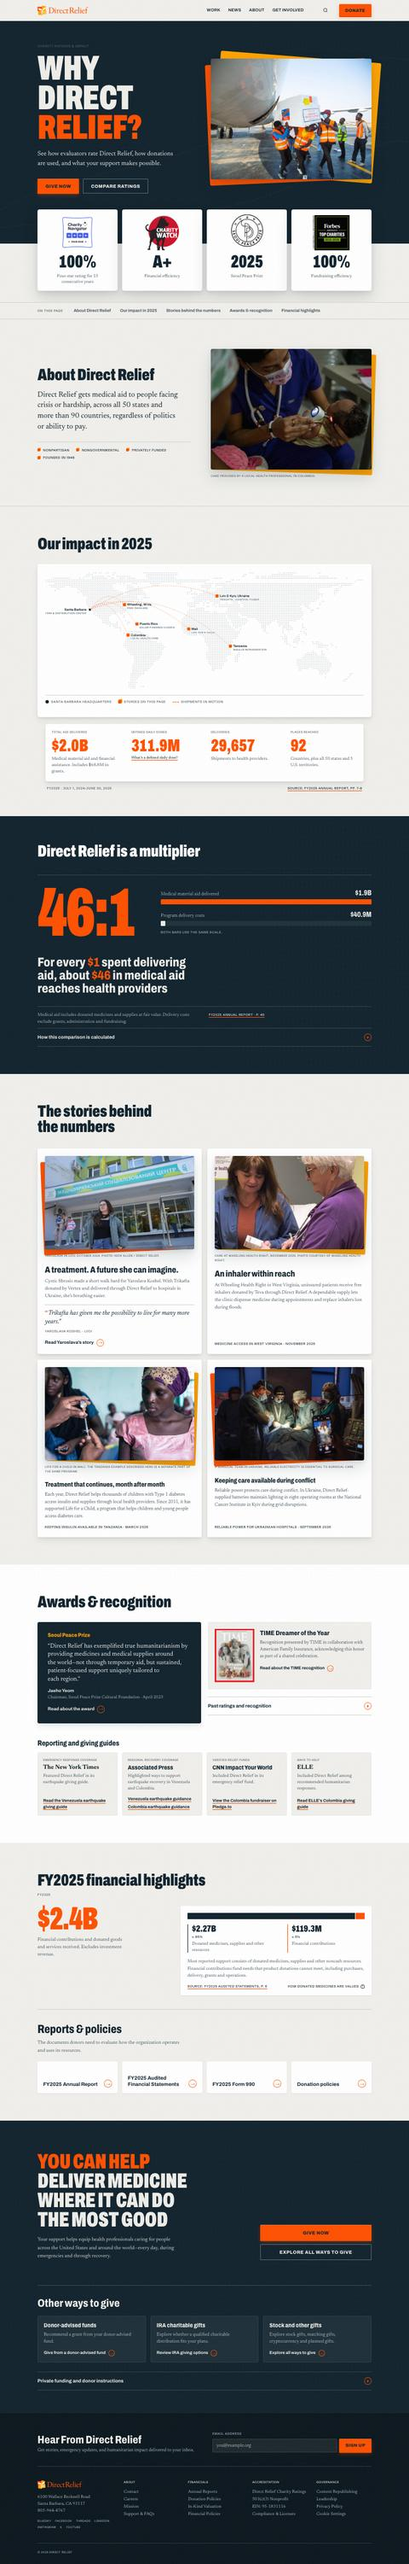
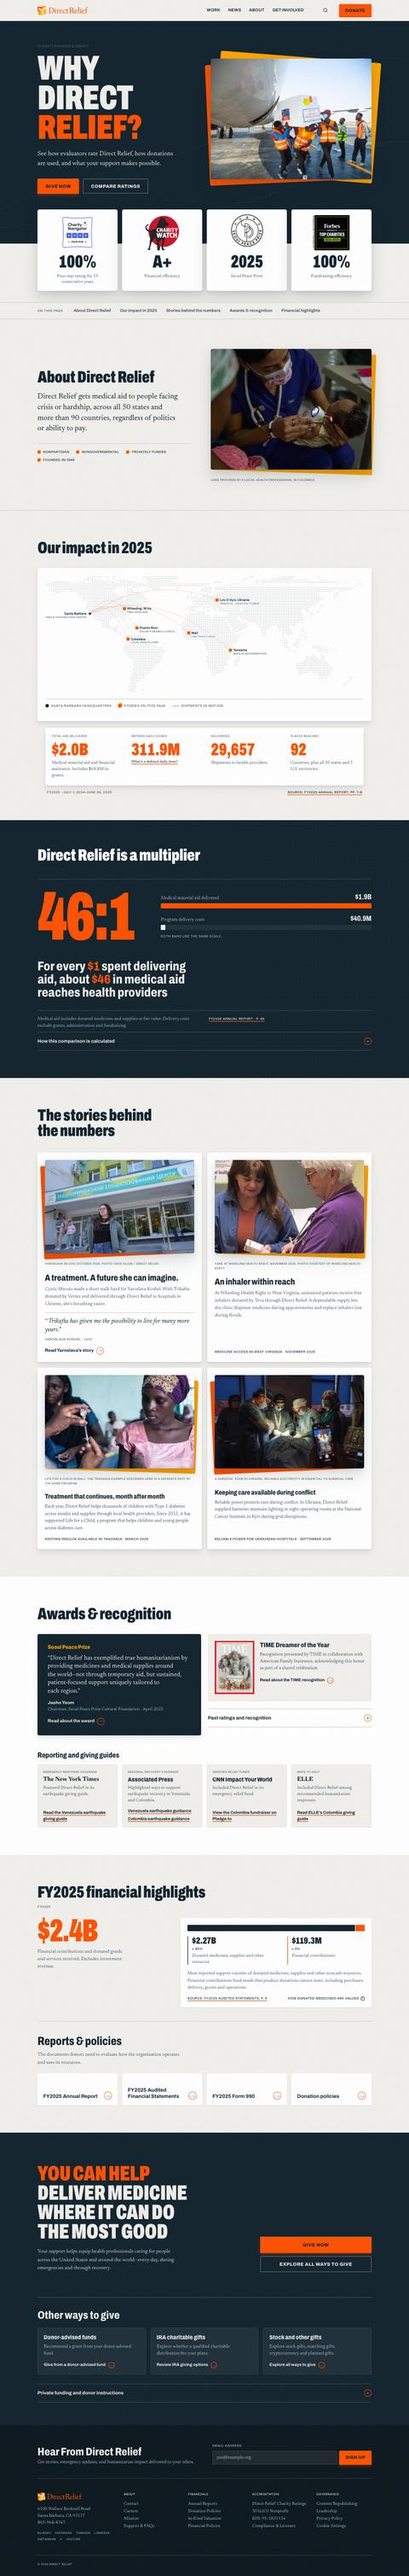
Fix v6 photo captions overlapping the tilted backing

diff --git a/v6/index.html b/v6/index.html
@@ -171,9 +171,10 @@ p{margin:0}
 .tile-ph .imgw::before{content:"";position:absolute;inset:0;border-radius:6px;background:var(--orange);transform:rotate(-2.5deg) translate(-10px,10px)}
 .tile-ph.amber .imgw::before{background:var(--amber);transform:rotate(2deg) translate(10px,10px)}
 .tile-ph img{position:relative;width:100%;aspect-ratio:4/3;object-fit:cover;border-radius:6px;box-shadow:var(--e3)}
-.tile-ph figcaption{margin-top:16px;color:var(--ink-2);font-size:.62rem;line-height:1.5}
+/* the tilted backing reaches ~22px below a 560px photo, so captions start past it */
+.tile-ph figcaption{margin-top:30px;color:var(--ink-2);font-size:.62rem;line-height:1.5}
 .dark .tile-ph figcaption{color:var(--on-band-2)}
-@container site (max-width:600px){.tile-ph .imgw::before{transform:rotate(-2deg) translate(-6px,6px)}.tile-ph.amber .imgw::before{transform:rotate(2deg) translate(6px,6px)}}
+@container site (max-width:600px){.tile-ph .imgw::before{transform:rotate(-2deg) translate(-6px,6px)}.tile-ph.amber .imgw::before{transform:rotate(2deg) translate(6px,6px)}.tile-ph figcaption{margin-top:20px}}
 
 /* drawers, tables */
 .drawers{margin-top:40px;border-top:1px solid var(--rule)}
